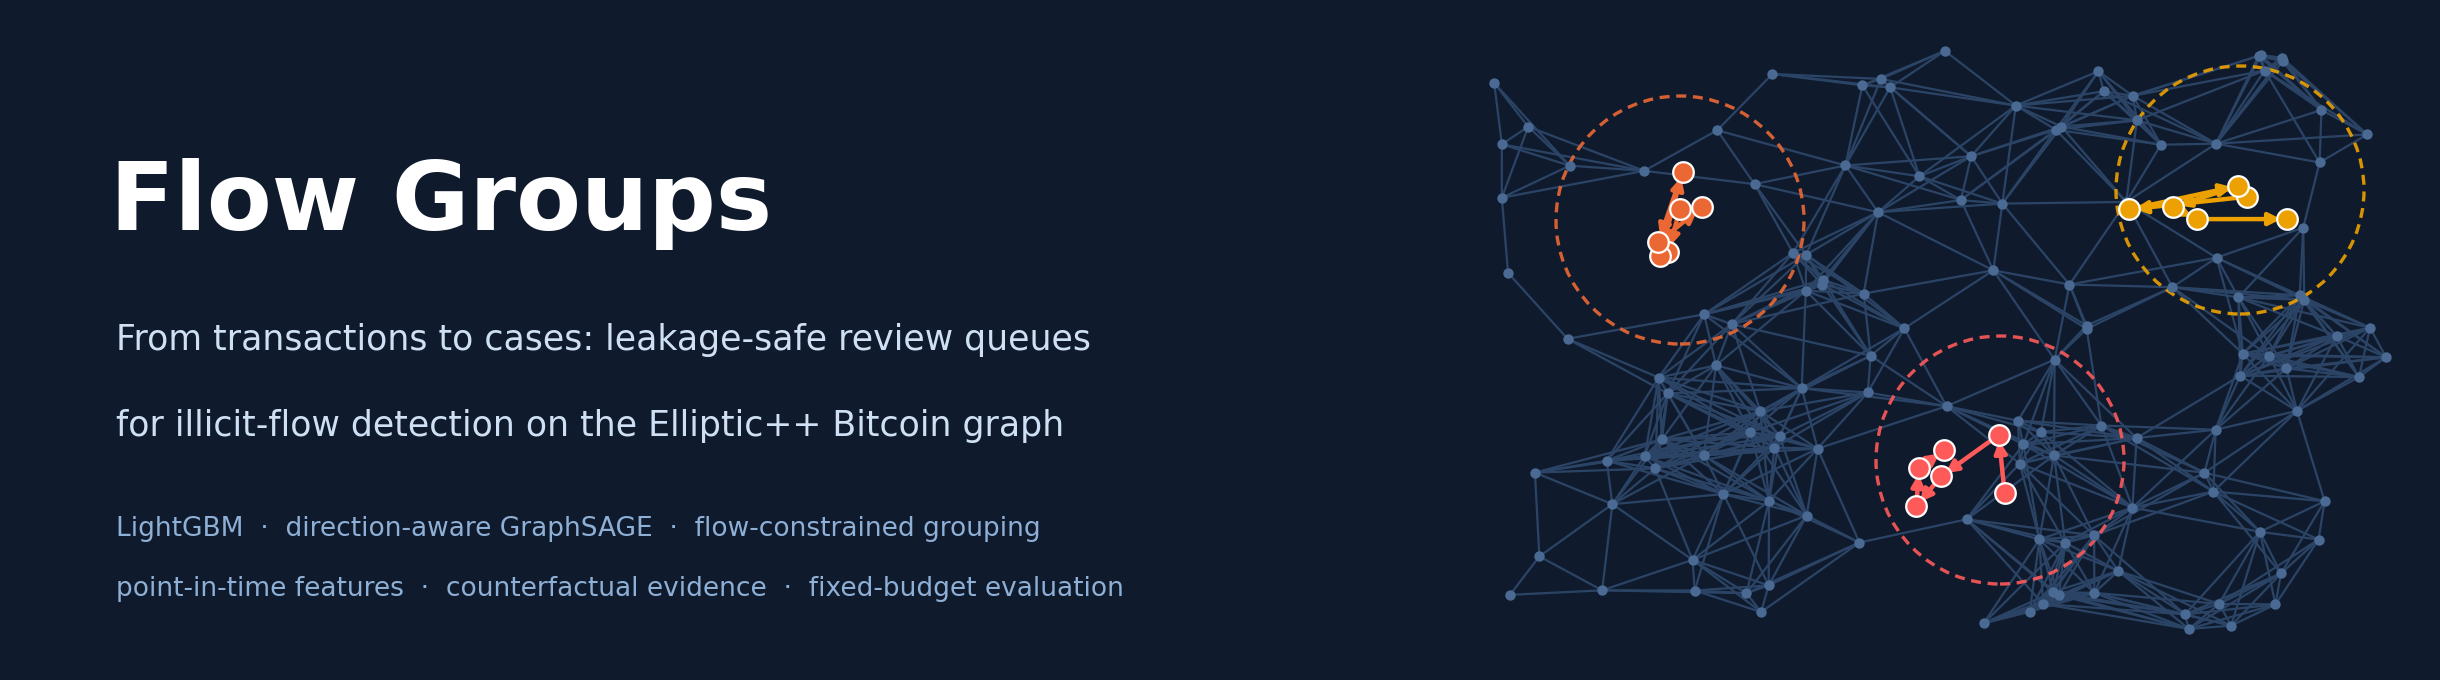
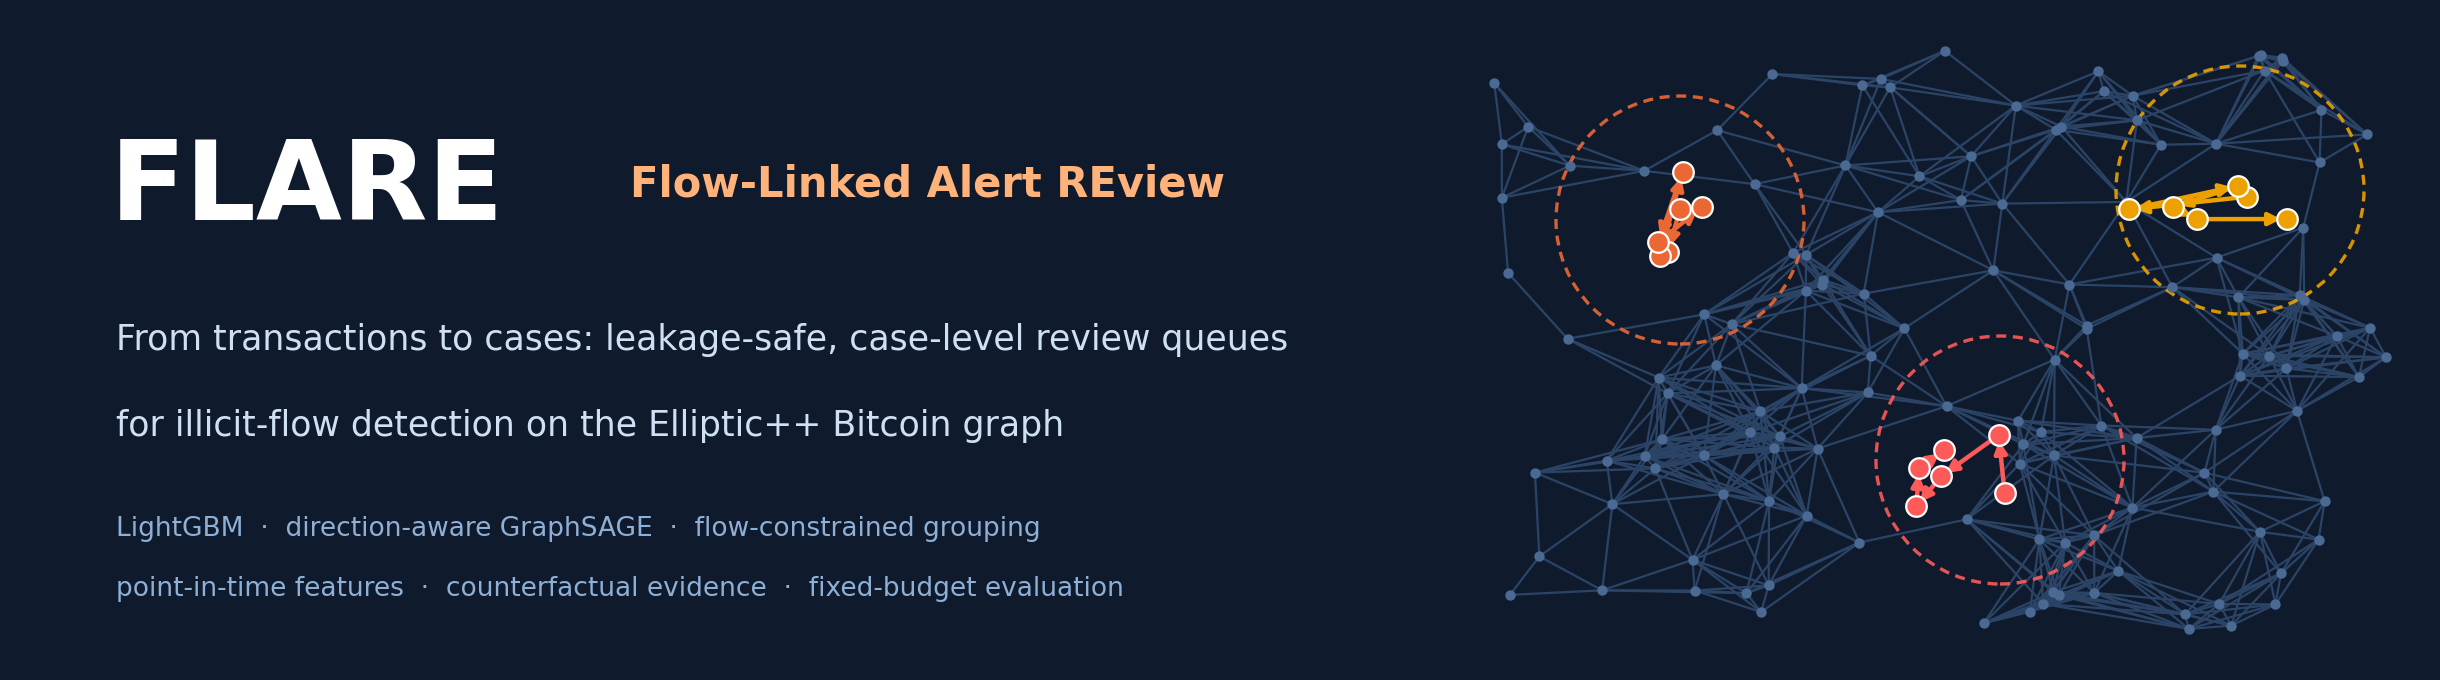
Rename project to FLARE (Flow-Linked Alert REview)
Package flowgroups -> flare, repository elliptic-flowgroups -> flare;
README, citation, docs, banner, wireframe and figure legends updated.

Claude-Session: https://claude.ai/code/session_013Sho3poMjtBVZNf2RyuWe2

Changed region(s): [[0.0311, 0.1853, 0.4984, 0.3706], [0.3426, 0.4632, 0.5295, 0.525]]

diff --git a/scripts/make_diagrams.py b/scripts/make_diagrams.py
@@ -65,8 +65,9 @@ def banner():
                         arrowprops=dict(arrowstyle="-|>", color=col, lw=1.6, mutation_scale=9))
         ax.scatter(*zip(*pts), s=55, color=col, edgecolor="white", lw=0.8, zorder=5)
         ax.add_patch(plt.Circle((cx, cy), 0.62, fill=False, ec=col, lw=1.2, ls=(0, (3, 2)), alpha=0.9))
-    ax.text(0.45, 2.15, "Flow Groups", fontsize=34, color="white", fontweight="bold")
-    ax.text(0.48, 1.55, "From transactions to cases: leakage-safe review queues", fontsize=12.5, color="#cfe0f5")
+    ax.text(0.45, 2.2, "FLARE", fontsize=40, color="white", fontweight="bold")
+    ax.text(3.05, 2.32, "Flow-Linked Alert REview", fontsize=15, color="#ffb27a", fontweight="bold")
+    ax.text(0.48, 1.55, "From transactions to cases: leakage-safe, case-level review queues", fontsize=12.5, color="#cfe0f5")
     ax.text(0.48, 1.12, "for illicit-flow detection on the Elliptic++ Bitcoin graph", fontsize=12.5, color="#cfe0f5")
     ax.text(0.48, 0.62, "LightGBM  ·  direction-aware GraphSAGE  ·  flow-constrained grouping", fontsize=9.5, color="#8fb0d6")
     ax.text(0.48, 0.32, "point-in-time features  ·  counterfactual evidence  ·  fixed-budget evaluation", fontsize=9.5, color="#8fb0d6")
@@ -235,7 +236,7 @@ def wireframe():
     W = "#f4f4f2"
     ax.add_patch(Rectangle((0.05, 0.05), 11.9, 6.9, fc="white", ec=INK2, lw=1.5))
     ax.add_patch(Rectangle((0.05, 6.35), 11.9, 0.6, fc="#e7e6e2", ec=INK2, lw=1))
-    ax.text(0.3, 6.65, "Flow Groups · Case Review Console", fontsize=12, fontweight="bold", va="center")
+    ax.text(0.3, 6.65, "FLARE · Case Review Console", fontsize=12, fontweight="bold", va="center")
     for i, t in enumerate(["Step 41 ▾", "Budget 1% (37 tx) ▾", "Risk: LightGBM ▾"]):
         box(ax, 6.6 + i * 1.75, 6.45, 1.6, 0.4, t, fc="white", ec=MUTED, fs=8.5)
     # left: case queue

diff --git a/scripts/make_figures.py b/scripts/make_figures.py
@@ -32,7 +32,7 @@ plt.rcParams.update({
 })
 
 QUEUES = [  # (name in CSV, label, colour, marker)
-    ("flow(ours) | ours", "Flow groups (ours)", BLUE, "o"),
+    ("flow(ours) | ours", "FLARE groups (ours)", BLUE, "o"),
     ("tx-queue (no groups)", "Transaction queue", ORANGE, "s"),
     ("conncomp | sum", "Connected components", AQUA, "^"),
     ("ego1hop | mean", "1-hop neighbourhood", YELLOW, "D"),
@@ -184,7 +184,7 @@ def fig_scarcity():
     fig, ax = plt.subplots(1, 3, figsize=(14, 3.9))
     ax[0].errorbar(fr, d.node_AP_mean, d.node_AP_std.fillna(0), color=INK2, marker="o", capsize=3)
     ax[0].set_title("transaction PR-AUC", loc="left", fontsize=9.5)
-    for tag, name, c, mk in [("flow", "Flow groups (ours)", BLUE, "o"), ("tx", "Transaction queue", ORANGE, "s"),
+    for tag, name, c, mk in [("flow", "FLARE groups (ours)", BLUE, "o"), ("tx", "Transaction queue", ORANGE, "s"),
                              ("cc", "Connected components", AQUA, "^")]:
         ax[1].errorbar(fr, d[f"{tag}_ill@0.01_mean"], d[f"{tag}_ill@0.01_std"].fillna(0), color=c, marker=mk, capsize=3,
                        label=name, lw=2.6 if tag == "flow" else 1.6)
@@ -202,7 +202,7 @@ def fig_scarcity():
 
 def fig_enrichment():
     d = read("E4_group_proxy_metrics.csv")
-    d["lab"] = d.risk + "\n" + d.method.str.replace("flow(ours) | ours", "flow (ours)", regex=False) \
+    d["lab"] = d.risk + "\n" + d.method.str.replace("flow(ours) | ours", "FLARE (ours)", regex=False) \
         .str.replace("conncomp | sum", "conn. comp.", regex=False).str.replace("ego1hop | mean", "1-hop", regex=False)
     x = np.arange(len(d)); wdt = 0.38
     fig, ax = plt.subplots(figsize=(10, 3.8))

diff --git a/src/flare/__init__.py b/src/flare/__init__.py
@@ -1,0 +1,25 @@
+"""FLARE (Flow-Linked Alert REview): leakage-safe, case-level review queues for illicit-flow detection on transaction graphs.
+
+The package contains the reusable algorithms behind the BTP study
+"From Transactions to Cases" (Elliptic++):
+
+* :mod:`flare.asof`           point-in-time (as-of) address features and a lifetime-leakage audit
+* :mod:`flare.graph`          per-step transaction graph with money-flow and shared-address links
+* :mod:`flare.groups`         flow-constrained group construction, baselines, group features and scores
+* :mod:`flare.queues`         fixed-budget review queues and case-fragmentation statistics
+* :mod:`flare.metrics`        threshold selection and paired bootstrap confidence intervals
+* :mod:`flare.models`         direction-aware GraphSAGE (PyTorch, optional)
+* :mod:`flare.counterfactual` gradient-selected evidence edges and deletion tests (PyTorch, optional)
+"""
+
+__version__ = "1.0.0"
+
+from .graph import StepGraph
+from .groups import flow_groups, cc_groups, ego_groups, group_features, group_score, FEATURE_NAMES
+from .queues import run_queue, queue_stats, pooled, QUEUE_STAT_NAMES
+from .metrics import best_f1_threshold, paired_bootstrap_ci
+
+__all__ = [
+    "StepGraph", "flow_groups", "cc_groups", "ego_groups", "group_features", "group_score", "FEATURE_NAMES",
+    "run_queue", "queue_stats", "pooled", "QUEUE_STAT_NAMES", "best_f1_threshold", "paired_bootstrap_ci",
+]

diff --git a/tests/test_asof_metrics_models.py b/tests/test_asof_metrics_models.py
@@ -4,13 +4,13 @@ import unittest
 import numpy as np
 import pandas as pd
 
-from flowgroups.asof import address_step_table, aggregate_to_transactions, lifetime_leakage_audit
-from flowgroups.metrics import paired_bootstrap_ci
+from flare.asof import address_step_table, aggregate_to_transactions, lifetime_leakage_audit
+from flare.metrics import paired_bootstrap_ci
 
 try:
     import torch
-    from flowgroups.models import DirSAGE
-    from flowgroups.counterfactual import deletion_test, edge_saliency
+    from flare.models import DirSAGE
+    from flare.counterfactual import deletion_test, edge_saliency
 except ImportError:  # pragma: no cover
     torch = None
 

diff --git a/tests/test_groups_and_queues.py b/tests/test_groups_and_queues.py
@@ -3,10 +3,10 @@ import unittest
 
 import numpy as np
 
-from flowgroups import (StepGraph, cc_groups, ego_groups, flow_groups, group_features, group_score, pooled,
+from flare import (StepGraph, cc_groups, ego_groups, flow_groups, group_features, group_score, pooled,
                         queue_stats, run_queue)
-from flowgroups.graph import same_address_pairs
-from flowgroups.groups import budget_for, select_seeds
+from flare.graph import same_address_pairs
+from flare.groups import budget_for, select_seeds
 
 
 def toy_graph():

diff --git a/examples/quickstart.py b/examples/quickstart.py
@@ -7,8 +7,8 @@ noisy risk model, and compares a transaction queue with a flow-group queue at th
 """
 import numpy as np
 
-from flowgroups import StepGraph, flow_groups, group_features, group_score, pooled, queue_stats, run_queue
-from flowgroups.groups import budget_for
+from flare import StepGraph, flow_groups, group_features, group_score, pooled, queue_stats, run_queue
+from flare.groups import budget_for
 
 rng = np.random.default_rng(0)
 n = 2000
